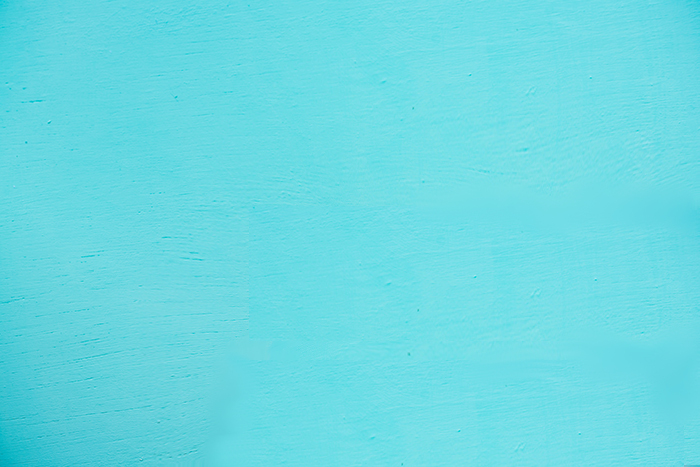
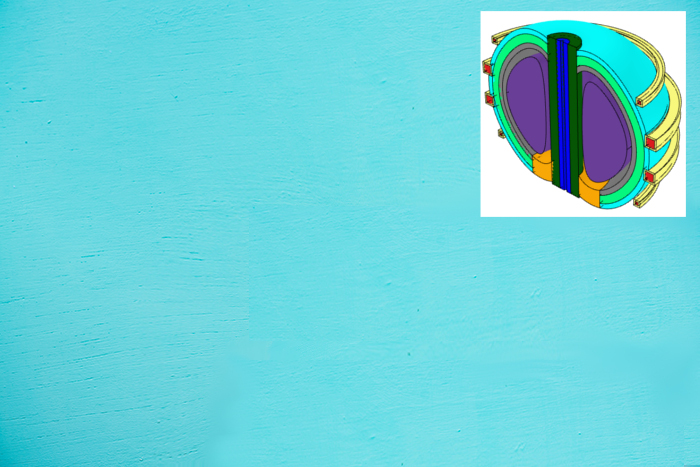
added link to openmc plot

Changed region(s): [[0.66, 0.0, 0.99, 0.4797]]

diff --git a/index.html b/index.html
@@ -65,6 +65,18 @@
                             <img class="img-fluid" src="assets/img/portfolio-3.jpg" alt="..." />
                         </a>
                     </div>
+                    <div class="col-lg-6">
+                        <!-- <a class="portfolio-item" href="http://openmc-plot.xsplot.com"> -->
+                        <a class="portfolio-item" href="https://openmc-plot-4zf6u4tg6a-ew.a.run.app">
+                            <div class="caption">
+                                <div class="caption-content">
+                                    <div class="h2">OpenMC Plot</div>
+                                    <p class="mb-0">Geometry plotting app for OpenMC geometry</p>
+                                </div>
+                            </div>
+                            <img class="img-fluid" src="assets/img/portfolio-4.jpg" alt="..." />
+                        </a>
+                    </div>
                    
                 </div>
             </div>
